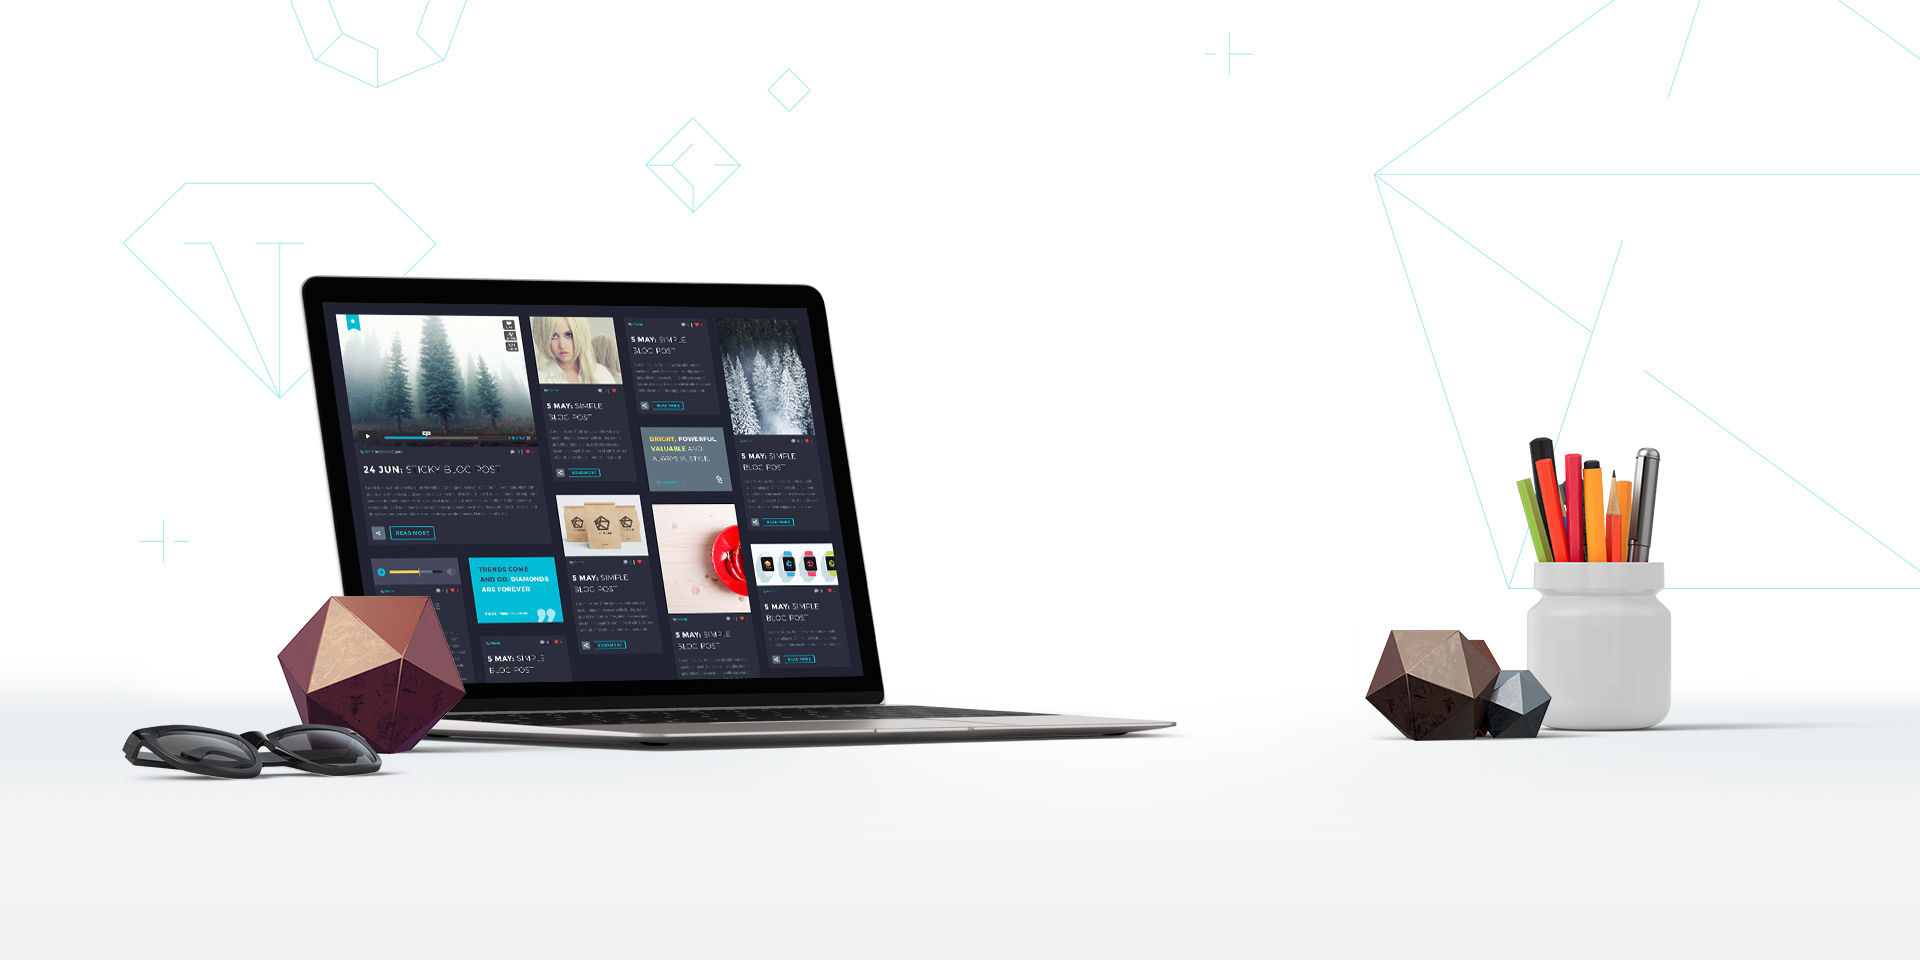
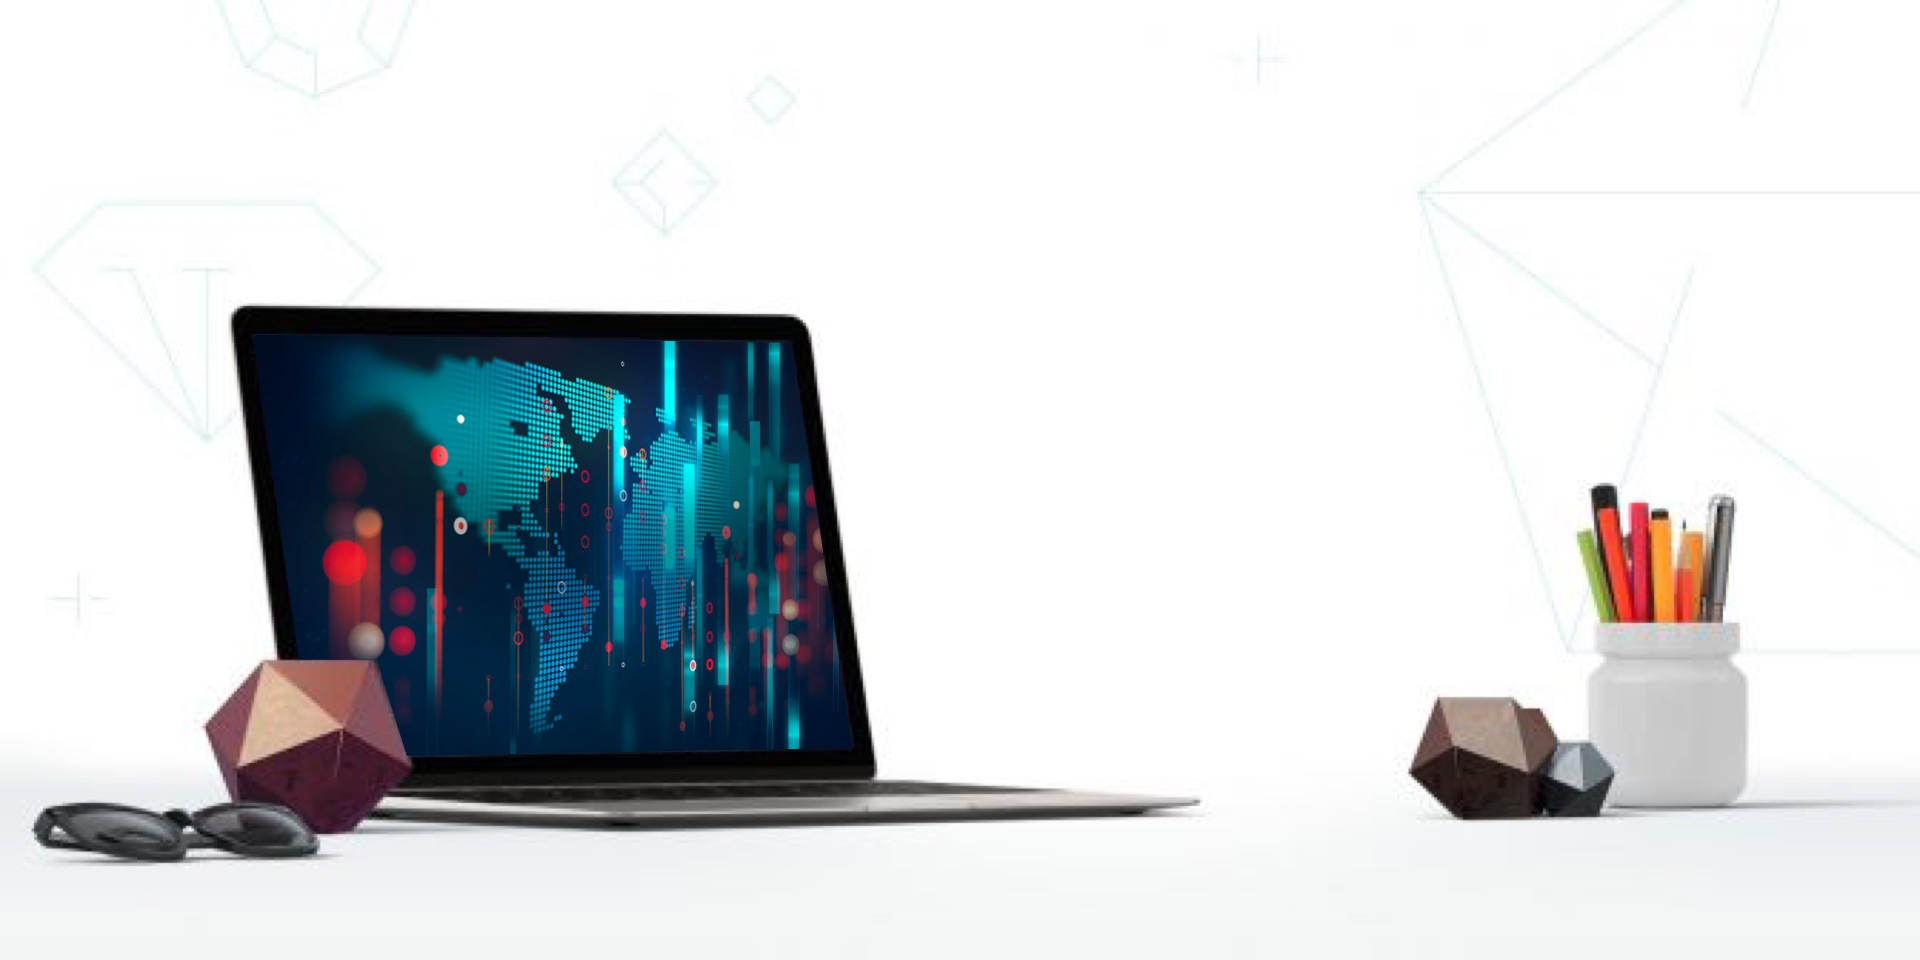
content & media queries

Changed region(s): [[0.0, 0.2812, 0.625, 0.9062], [0.6875, 0.4375, 0.9688, 0.875]]

diff --git a/index.html b/index.html
@@ -31,116 +31,7 @@
 	<meta name="msapplication-TileImage" content="./images/favicon/ms-icon-144x144.png">
 	<meta name="theme-color" content="#ffffff">
     <link rel="manifest" href="./images/favicon/site.webmanifest">
-<style type="text/css" data-type="vc_custom-css" >
-    .vc_separator.vc_separator_align_center > * {
-    padding: 0;
-}
-.custom_qf_color .quickfinder-item-text,
-.custom_qf_color .quickfinder-item-title {
-    color: #3c3950 !important;
-}
-.qf_paddings .quickfinder {
-    padding: 0;
-}
-.qf_paddings .inline-column {
-     margin-bottom: -63px;
-}
-.gem-team-style-1 .team-person {
-    background-color: #393d50;
-}
-.gem-team-style-1  .team-person-name.title-h4 {
-    color: #fff;
-}
- .diagram-wrapper.style-2 .digram-line-box .skill-line {
-     background-color: #393d50;
- }
- .gem-testimonial-text p {
-    color: #f0f3f2;
-}
-.gem-testimonials.style1 .gem-testimonial-wrapper:after { 
-    color: #00bcd4 !important;
-}
-.custom-form input.wpcf7-form-control.wpcf7-submit {
-    background-color: transparent !important;
-    border: 1px solid #99a9b5;
-    border-radius: 25px;
-    color: #99a9b5;
-    font-family: 'Montserrat UltraLight';
-    font-weight: 100;
-}
-.custom-form input.wpcf7-form-control.wpcf7-submit:hover {
-    background-color: #99a9b5;
-}
-.custom-form .wpcf7-form.gem-contact-form-dark input[type='submit']:hover {
-    border-color: #5f727f;
-    background-color: #5f727f !important;
-    color: #fff;
-}
-.gem-button-separator-line {
-    border-color: #0d9cb3 !important;
-}
-.gem-counter-number {
-        font-family: 'Montserrat UltraLight';
-    font-weight: 100;
-}
-@media (max-width: 1199px) {
-.wpb_row > * {
-    margin-top: 0;
-}
-}
-@media (max-width: 768px) {
-body .vc_custom_1459257376666 {
-    padding-left: 20px !important;
-}
-
-.fullwidth-bottom-marker.marker-direction-outside {
-    bottom: -45px !Important;
-}
-
-}
-
-.blog.blog-style-masonry article .description {
-    background-color: #fff !important;
-}
-@media (max-width: 768px) {
-   #details .fullwidth-block.clearfix{
-       background-image: url("./wp-content/uploads/2016/03/9-25.jpg") !important;
-} 
-.quickfinder-item {
-    margin: 0;
-}
-body .vc_custom_1459257208106 {
-    margin-top: 50px !important;
-}
-.center .styled-subtitle {
-    text-align: center;
-}
-.center .gem-button-container.gem-button-position-left {
-    text-align: center;
-    float: none;
-}
-.gem-icon-with-text-icon {
-    width: 100%;
-}
-body .vc_custom_1459259613434, 
-body .vc_custom_1459259606656, 
-body .vc_custom_1459259620379 {
-        padding-left: 21px !important;
-}
-.gem-icon-with-text-icon {
-    padding-right: 0 !important;
-}
-.vc_custom_1459259669771 .title-h2 {
-        max-width: 300px;
-}
-}
-#primary-navigation .hamburger-toggle > span {
-        background-color: #fff !important;
-}
-
-</style>
-<style type="text/css" data-type="vc_shortcodes-custom-css">
-    .vc_custom_1459259254558{margin-bottom: 0px !important;}.vc_custom_1459183551455{margin-bottom: 0px !important;}.vc_custom_1460978618277{margin-top: 0px !important;margin-bottom: 0px !important;padding-top: 90px !important;padding-bottom: 90px !important;background-color: #ffd954 !important;}.vc_custom_1460101980593{margin-top: 0px !important;margin-bottom: 0px !important;padding-top: 0px !important;}.vc_custom_1459238356394{margin-bottom: 0px !important;}.vc_custom_1459238387623{margin-bottom: 0px !important;}.vc_custom_1459239735709{margin-bottom: 0px !important;}.vc_custom_1459240035798{margin-bottom: 0px !important;}.vc_custom_1459258631922{margin-bottom: 0px !important;}.vc_custom_1459252727458{margin-bottom: 0px !important;background-color: #f0f3f2 !important;}.vc_custom_1459252930910{margin-bottom: 0px !important;}.vc_custom_1460101957277{margin-bottom: 0px !important;}.vc_custom_1461159839377{margin-top: -22px !important;}.vc_custom_1459257460678{margin-top: -19px !important;padding-right: 0px !important;}.vc_custom_1459257376666{padding-left: 0px !important;}.vc_custom_1460101989271{margin-top: 0px !important;padding-top: 0px !important;}.vc_custom_1461160014053{margin-top: 10px !important;}.vc_custom_1461160023950{margin-top: 10px !important;}.vc_custom_1461160144932{margin-top: -15px !important;}.vc_custom_1461160153869{padding-right: 70px !important;padding-left: 70px !important;}.vc_custom_1459259606656{padding-left: 55px !important;background-color: #429ae2 !important;}.vc_custom_1459259613434{padding-left: 55px !important;background-color: #00bcd4 !important;}.vc_custom_1459259620379{padding-left: 55px !important;background-color: #4cd2b1 !important;}.vc_custom_1461159036038{padding-right: 0px !important;padding-left: 0px !important;}.vc_custom_1460102037133{margin-top: 0px !important;padding-top: 0px !important;}.vc_custom_1459258950130{padding-top: 30px !important;}</style>
+<link rel='stylesheet'  href='./css/style.css' type='text/css' data-type="vc_custom-css"/>
 <link rel='dns-prefetch' href='//fonts.googleapis.com' />
 <link rel='dns-prefetch' href='//s.w.org' />
 <link rel="alternate" type="application/rss+xml" title="Aiknow &raquo; Feed" href="./feed/index.html" />
@@ -440,7 +331,7 @@ var zilla_likes = {"ajaxurl":".\/wp-admin\/admin-ajax.php"};
 									<div class="wpb_wrapper">
 									<div id="fullwidth-block-5dc3b6e2c06df" class="fullwidth-block clearfix"  style="padding-top: 170px;padding-bottom: 84px;">
 										<script type="text/javascript">if (typeof(gem_fix_fullwidth_position) == "function") { gem_fix_fullwidth_position(document.getElementById("fullwidth-block-5dc3b6e2c06df")); }</script>
-										<div class="fullwidth-block-background" style="background-image: url(./wp-content/uploads/2016/03/1-36.jpg);background-repeat: no-repeat; background-size: cover;background-position: center top;"></div>
+										<div class="fullwidth-block-background aboutbg" ></div>
 										<div class="fullwidth-block-inner">
 											<div class="container">
 												<div class="vc_row wpb_row vc_inner vc_row-fluid">
@@ -464,8 +355,8 @@ var zilla_likes = {"ajaxurl":".\/wp-admin\/admin-ajax.php"};
 <div class="gem-divider" style="margin-top: 10px;"></div>
 	<div class="wpb_text_column wpb_content_element  wpb_animate_when_almost_visible wpb_top-to-bottom top-to-bottom" >
 		<div class="wpb_wrapper">
-			<div class="styled-subtitle">We are doing technology,</br>
-            Data and Innovation just comes along.</div>
+			<div class="styled-subtitle">We build products which are <br/>
+            secured, cloud ready and customized.</div>
 
 		</div>
 	</div>
@@ -483,7 +374,7 @@ var zilla_likes = {"ajaxurl":".\/wp-admin\/admin-ajax.php"};
 <div class="gem-divider" style="margin-top: 30px;"></div>
 	<div class="wpb_text_column wpb_content_element  wpb_animate_when_almost_visible wpb_top-to-bottom top-to-bottom" >
 		<div class="wpb_wrapper">
-			<p style="text-align: left; max-width: 450px;">Technology makes difference, </br> We believe the possibilities will nevel end.</p>
+			<p style="text-align: left; max-width: 450px;">Our main areas of expertise is in<br/>  intelligent technology, which can be customized for better needs.<br/>  We believe the possibilities will nevel end.</p>
 
 		</div>
 	</div>

diff --git a/css/style.css b/css/style.css
@@ -1,6 +1,3 @@
-/*vc_custom-css*/
-
-
 .vc_separator.vc_separator_align_center > * {
     padding: 0;
 }
@@ -73,7 +70,7 @@ body .vc_custom_1459257376666 {
 }
 @media (max-width: 768px) {
    #details .fullwidth-block.clearfix{
-       background-image: url("./wp-content/uploads/2016/03/9-25.jpg") !important;
+       background-image: url("../wp-content/uploads/2016/03/9-25.jpg") !important;
 } 
 .quickfinder-item {
     margin: 0;
@@ -106,12 +103,48 @@ body .vc_custom_1459259620379 {
 #primary-navigation .hamburger-toggle > span {
         background-color: #fff !important;
 }
-
-
-
-
-/*
-vc_shortcodes-custom-css
-*/
-
-.vc_custom_1459259254558{margin-bottom: 0px !important;}.vc_custom_1459183551455{margin-bottom: 0px !important;}.vc_custom_1460978618277{margin-top: 0px !important;margin-bottom: 0px !important;padding-top: 90px !important;padding-bottom: 90px !important;background-color: #ffd954 !important;}.vc_custom_1460101980593{margin-top: 0px !important;margin-bottom: 0px !important;padding-top: 0px !important;}.vc_custom_1459238356394{margin-bottom: 0px !important;}.vc_custom_1459238387623{margin-bottom: 0px !important;}.vc_custom_1459239735709{margin-bottom: 0px !important;}.vc_custom_1459240035798{margin-bottom: 0px !important;}.vc_custom_1459258631922{margin-bottom: 0px !important;}.vc_custom_1459252727458{margin-bottom: 0px !important;background-color: #f0f3f2 !important;}.vc_custom_1459252930910{margin-bottom: 0px !important;}.vc_custom_1460101957277{margin-bottom: 0px !important;}.vc_custom_1461159839377{margin-top: -22px !important;}.vc_custom_1459257460678{margin-top: -19px !important;padding-right: 0px !important;}.vc_custom_1459257376666{padding-left: 0px !important;}.vc_custom_1460101989271{margin-top: 0px !important;padding-top: 0px !important;}.vc_custom_1461160014053{margin-top: 10px !important;}.vc_custom_1461160023950{margin-top: 10px !important;}.vc_custom_1461160144932{margin-top: -15px !important;}.vc_custom_1461160153869{padding-right: 70px !important;padding-left: 70px !important;}.vc_custom_1459259606656{padding-left: 55px !important;background-color: #429ae2 !important;}.vc_custom_1459259613434{padding-left: 55px !important;background-color: #00bcd4 !important;}.vc_custom_1459259620379{padding-left: 55px !important;background-color: #4cd2b1 !important;}.vc_custom_1461159036038{padding-right: 0px !important;padding-left: 0px !important;}.vc_custom_1460102037133{margin-top: 0px !important;padding-top: 0px !important;}.vc_custom_1459258950130{padding-top: 30px !important;}
+.aboutbg{
+    background-image: url(../wp-content/uploads/2016/03/1-36.jpg);
+    background-repeat: no-repeat; 
+    background-size: cover;
+    background-position: center top;
+}
+@media (orientation: portrait) {
+  .aboutbg {
+    background-image: url(../wp-content/uploads/2016/03/1-36-766x731.jpg);
+  }
+  .quickfinder-item-box{
+    padding-top: 20px !important;
+    padding-bottom: 20px !important;
+  }
+  .inline-row {
+    margin-bottom: 0px !important;
+  }
+}
+    
+.vc_custom_1459259254558{margin-bottom: 0px !important;}
+.vc_custom_1459183551455{margin-bottom: 0px !important;}
+.vc_custom_1460978618277{margin-top: 0px !important;margin-bottom: 0px !important;padding-top: 90px !important;padding-bottom: 90px !important;background-color: #ffd954 !important;}
+.vc_custom_1460101980593{margin-top: 0px !important;margin-bottom: 0px !important;padding-top: 0px !important;}
+.vc_custom_1459238356394{margin-bottom: 0px !important;}
+.vc_custom_1459238387623{margin-bottom: 0px !important;}
+.vc_custom_1459239735709{margin-bottom: 0px !important;}
+.vc_custom_1459240035798{margin-bottom: 0px !important;}
+.vc_custom_1459258631922{margin-bottom: 0px !important;}
+.vc_custom_1459252727458{margin-bottom: 0px !important;background-color: #f0f3f2 !important;}
+.vc_custom_1459252930910{margin-bottom: 0px !important;}
+.vc_custom_1460101957277{margin-bottom: 0px !important;}
+.vc_custom_1461159839377{margin-top: -22px !important;}
+.vc_custom_1459257460678{margin-top: -19px !important;padding-right: 0px !important;}
+.vc_custom_1459257376666{padding-left: 0px !important;}
+.vc_custom_1460101989271{margin-top: 0px !important;padding-top: 0px !important;}
+.vc_custom_1461160014053{margin-top: 10px !important;}
+.vc_custom_1461160023950{margin-top: 10px !important;}
+.vc_custom_1461160144932{margin-top: -15px !important;}
+.vc_custom_1461160153869{padding-right: 70px !important;padding-left: 70px !important;}
+.vc_custom_1459259606656{padding-left: 55px !important;background-color: #429ae2 !important;}
+.vc_custom_1459259613434{padding-left: 55px !important;background-color: #00bcd4 !important;}
+.vc_custom_1459259620379{padding-left: 55px !important;background-color: #4cd2b1 !important;}
+.vc_custom_1461159036038{padding-right: 0px !important;padding-left: 0px !important;}
+.vc_custom_1460102037133{margin-top: 0px !important;padding-top: 0px !important;}
+.vc_custom_1459258950130{padding-top: 30px !important;}
